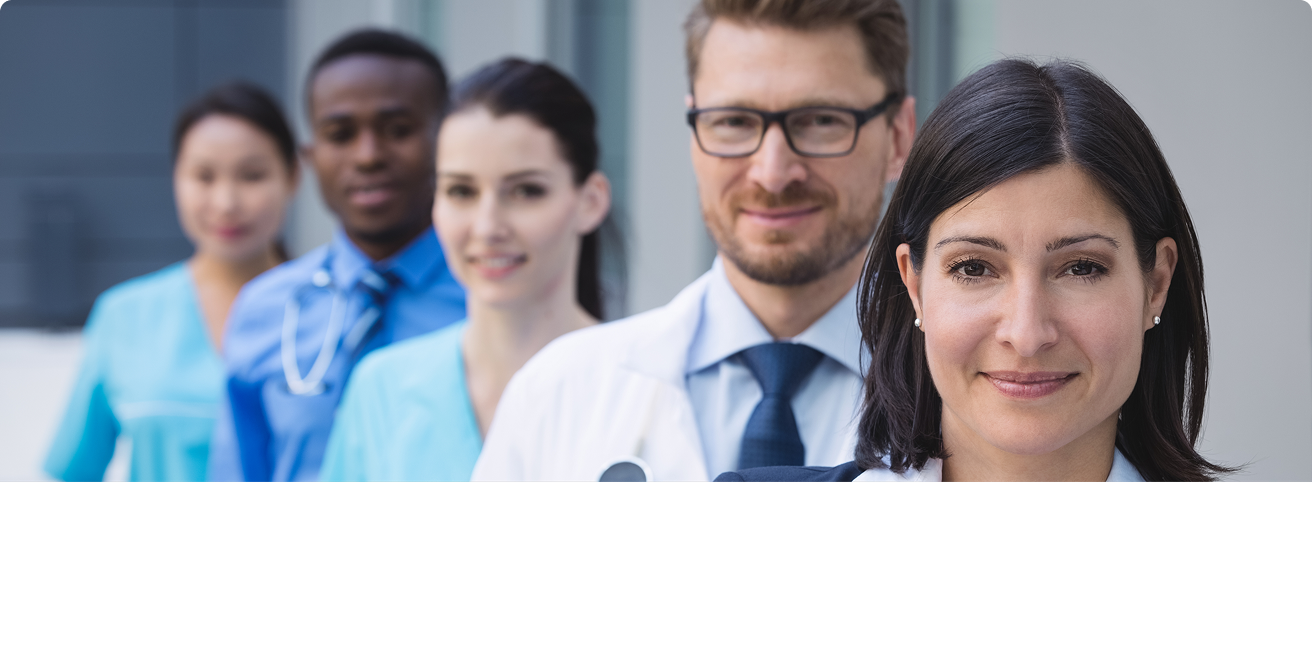
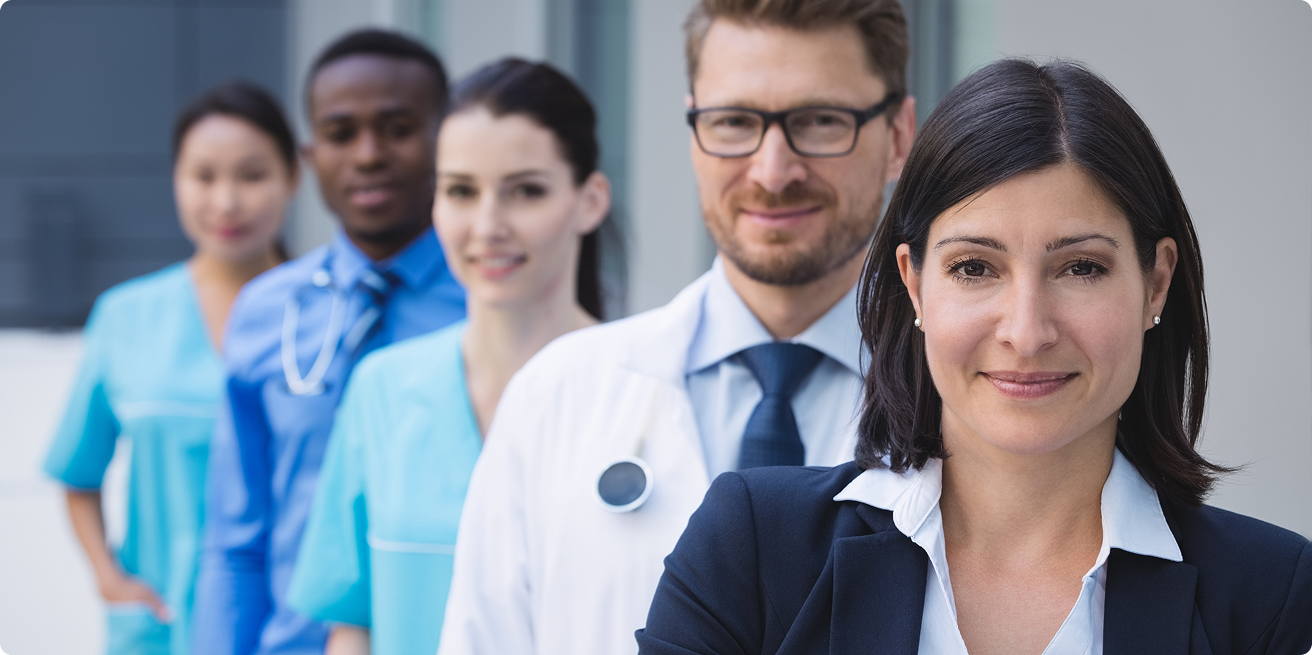
Completed the desktop view of the landing page

Changed region(s): [[0.0, 0.7328, 1.0, 1.0]]

diff --git a/src/pages/LandingPage.jsx b/src/pages/LandingPage.jsx
@@ -1,13 +1,14 @@
 import { useState } from "react";
-import { FitnessFeatureIcon, HealthContent, LandingPageImg1, LandingPageImg2, LandingPageImg3, LandingPageImg4, MedicationsFeatureIcon, NutritionFeatureIcon, Playvideoicon, ProfessionalFeatureIcon, Professionals2, ProfessionalsFrame, SearchIcon, Stethoscope, WellnessFeatureIcon} from "../assets";
+import { DietDish, Facebook, FitnessFeatureIcon, FooterAndroidDownload, FooterIOSDownload, HealthContent, HumanHeads, InstagramIcon, LandingPageImg1, LandingPageImg2, LandingPageImg3, LandingPageImg4, Logo, LoveSymbol, MedicationsFeatureIcon, MichealHeadShot, NutritionFeatureIcon, Playvideoicon, ProfessionalFeatureIcon, Professionals2, ProfessionalsFrame, RollPrint, SearchIcon, StarRate, Stethoscope, TikTok, TwitterIcon, WellnessFeatureIcon, YogaFlowCover} from "../assets";
 import Header from "../components/header";
 import { IoMdArrowRoundForward } from "react-icons/io";
-import { IoFitness } from "react-icons/io5";
+import { FaPlay } from 'react-icons/fa6';
+
 
 
 function WellnessNeeds({icon, description, title, iconDesc}) {
   return (
-    <div className="bg-white rounded-[20px] py-8.5 px-8 flex flex-col gap-4 w-100 text-left shadow-featurecard">
+    <div className="bg-white rounded-[20px] py-8.5 px-8 flex flex-col gap-4 flex-1 basis-[31%] text-left shadow-featurecard">
       <img src={icon} alt={iconDesc} className="w-22.5 h-19.5" />
       <h6 className="text-lg font-medium text-title">{title}</h6>
       <p className="text-base text-description leading-[150%]">{description}</p>
@@ -29,7 +30,7 @@ function LeliFeaturesCard({ title, description }) {
 
 function ProfessionalOptionsCard({icon, iconDesc, title, description, buttonText }) {
   return (
-    <div className="px-6 py-5 gap-5 flex flex-col flex-wrap text-base rounded-lg bg-[#FFFFFF] w-100 text-right">
+    <div className="px-6 py-5 gap-5 flex flex-col text-base rounded-lg bg-[#FFFFFF] flex-1 basis-[30%] text-left">
       <img src={icon} alt={iconDesc} className="w-11" />
       <h6 className="text-lg text-title font-medium -tracking-[1.1%]">
         {title}
@@ -52,28 +53,77 @@ function ProcessFeatureCard({title, description, icon, iconDesc}) {
   )
 }
 
-function ExpertComponent() {
+function ExpertComponent({img, imgDesc}) {
   return (
-    <div>
-      <video src=""></video>
-      <title></title>
-    </div>
-  )
-}
-
-function Testimonials() {
-  return (
-    <div className="bg-[#E5F1FA] p-6 rounded-[14px]">
-      <div></div>
-      <p className="text-base text-description mt-4">{ text }</p>
-      <div>
-        <img src={ } alt="" />
-        <div>
-          <p></p>
+    <div className="rounded-[9.5px] bg-white w-[300px] overflow-hidden">
+      <div className="relative">
+        <img src={img} alt={imgDesc} className="w-full h-[138.27px]" />
+        <div className="absolute inset-0 bg-black/40 flex items-center justify-center">
+          <div className="bg-white rounded-full w-[60px] h-[60px] flex justify-center items-center cursor-pointer">
+            <FaPlay color="black/40" className="ml-0.5" />
+          </div>
+        </div>
+      </div>
+      <div className="px-3 py-2">
+        <h6 className="text-base text-title font-semibold mt-1">
+          5-Minute Morning Yoga flow
+        </h6>
+        <div className="text-xs text-description flex items-center justify-between mt-3.5">
+          <p>Dr Sarah Mitchell</p>
+          <p>12.5k views</p>
         </div>
       </div>
     </div>
-  )
+  );
+}
+
+function AboutLeli({icon, title, description, iconDesc}) {
+  return (
+    <div className="flex py-4 gap-3 rounded-lg items-start bg-[#E5F1FA80] px-[77.5px]">
+      <img src={icon} alt={iconDesc} />
+      <div className="text-base text-description">
+        <h6 className="text-titlesize text-[#000000] font-semibold leading-[100%] mb-1">{title}</h6>
+        <p>{description}</p>
+      </div>
+    </div>
+  );
+}
+
+function Testimonials({text}) {
+  return (
+    <div className="bg-[#E5F1FA] p-6 rounded-[14px] text-base w-105 h-77.75">
+      <div className="flex items-center">
+        <img
+          src={StarRate}
+          alt="A gold star representing the users rating of Leli"
+        />
+        <img
+          src={StarRate}
+          alt="A gold star representing the users rating of Leli"
+        />
+        <img
+          src={StarRate}
+          alt="A gold star representing the users rating of Leli"
+        />
+        <img
+          src={StarRate}
+          alt="A gold star representing the users rating of Leli"
+        />
+        <img
+          src={StarRate}
+          alt="A gold star representing the users rating of Leli"
+        />
+      </div>
+      <p className="mt-4 mb-4.5 text-justify">{text}</p>
+      <div className="flex items-center text-left gap-2.5">
+        <img src={MichealHeadShot} alt="An closeup shot of Leli user" className="rounded-full w-12.5 h-12.5" />
+        <div>
+          <h6 className="text-[#000000] font-semibold">Michael Rodriguez</h6>
+          <p className="text-sm">Leli User</p>
+        </div>
+      </div>
+    </div>
+  );
 }
 
 
@@ -82,7 +132,7 @@ function LandingPage() {
     return (
       <>
         <Header />
-        <section className="px-16 text-center py-16">
+        <section className="px-16 text-center pt-16 pb-40">
           <h1 className="text-[56px] font-bold text-title whitespace-pre-wrap">
             Feel better.  
             <span className="text-primary"> Live healthier. </span> Every day.
@@ -100,8 +150,8 @@ function LandingPage() {
               Join as a Professional
             </button>
           </div>
-          <div className="relative mb-">
-            <div className="mt-10 flex items- gap-4 overflow-hidden">
+          <div className="relative">
+            <div className="mt-10 flex items-center gap-4 overflow-hidden">
               <img
                 src={LandingPageImg1}
                 alt="Image of a patient on a virtual consultation with her doctor"
@@ -121,9 +171,9 @@ function LandingPage() {
             </div>
             <div
               className="w-full h-15 absolute bottom-0 left-0 bg-white"
-              style={{ clipPath: "ellipse(50% 100% at 50% 100%)" }}
+              style={{ clipPath: "ellipse(54% 100% at 50% 100%)" }}
             ></div>
-            <div className="absolute flex items-center z-10 gap-12 left-1/2 -translate-x-1/2 text-title font-semibold text-2xl">
+            <div className="absolute -bottom-2 flex items-center z-10 gap-12 left-1/2 -translate-x-1/2 translate-y-1/2 text-title font-semibold text-2xl">
               <div className="border-r border-r-black p-3">
                 <p>50K+</p>
                 <p className="text-[14px] text-description font-normal">
@@ -136,7 +186,7 @@ function LandingPage() {
                   Professionals
                 </p>
               </div>
-              <div className="border-r border-r-black p-3">
+              <div className="">
                 <p>4.9/5</p>
                 <p className="text-[14px] text-description font-normal">
                   User Rating
@@ -226,13 +276,13 @@ function LandingPage() {
           <p>Simple steps to start your health journey or grow your practice</p>
           <div className="flex gap-4 items-center justify-center rounded-md mt-20 mb-8 text-base text-center">
             <button
-              className={`${selectedOption === "users" ? "bg-[#DBE5FF] text-[#0072CE]" : "bg-[#FFFFFF] text-[#000000]"} rounded-lg border border-[#DBE5FF] px-5.75 py-[9.5px]  `}
+              className={`${selectedOption === "users" ? "bg-[#DBE5FF] text-primary" : "bg-[#FFFFFF] text-[#000000]"} rounded-lg border border-[#DBE5FF] px-5.75 py-[9.5px]  `}
               onClick={() => setSelectedOption("users")}
             >
               For users
             </button>
             <button
-              className={`${selectedOption === "professionals" ? "bg-[#DBE5FF] text-[#0072CE]" : "bg-[#FFFFFF] text-[#000000]"} rounded-lg border border-[#DBE5FF] px-5.75 py-[9.5px]  `}
+              className={`${selectedOption === "professionals" ? "bg-[#DBE5FF] text-primary" : "bg-[#FFFFFF] text-[#000000]"} rounded-lg border border-[#DBE5FF] px-5.75 py-[9.5px]  `}
               onClick={() => setSelectedOption("professionals")}
             >
               For professionals
@@ -283,7 +333,7 @@ function LandingPage() {
               }
             />
           </div>
-          <button className="bg-[#0072CE] mt-14 text-[#FFFFFF] rounded-[10px] w-110.75 py-4.25 flex items-center justify-center gap-2 mx-auto cursor-pointer hover:scale-90 transition-transform duration-300 ease-in-out">
+          <button className="bg-primary mt-14 text-[#FFFFFF] rounded-[10px] w-110.75 py-4.25 flex items-center justify-center gap-2 mx-auto cursor-pointer hover:scale-90 transition-transform duration-300 ease-in-out">
             {selectedOption === "users" ? (
               <>
                 Start Exploring <IoMdArrowRoundForward color="#FFFFFF" />
@@ -311,7 +361,7 @@ function LandingPage() {
             alt="A lineup of five medical professionals"
           />
 
-          <div className="grid grid-row-2 grid-cols-3  gap-14 ">
+          <div className="flex flex-wrap gap-10 mt-6">
             <ProfessionalOptionsCard
               icon={Stethoscope}
               iconDesc="A sthethoscope representing the doctor profession"
@@ -351,21 +401,163 @@ function LandingPage() {
         </section>
 
         <section className="p-16 bg-[#F7F9FC]">
-          <h2 className="text-[40px] font-semibold text-title mb-4">
+          <h2 className="text-[40px] font-semibold text-title mb-4 text-center">
             Explore expert Content
           </h2>
-          <p className="text-2xl text-description mb-20">
+          <p className="text-2xl text-description mb-20 text-center">
             Simple steps to start your health journey or grow your practice
           </p>
-        </section>
 
-        <section className="bg-[#F7F9FC] py-24 px-16">
-          <h2>Loved by users and professionals</h2>
-          <p>See what our community has to say about their LELI experience</p>
-          <div className="mt-20">
-
+          <div className="flex items-center gap-5 justify-center">
+            <ExpertComponent
+              img={YogaFlowCover}
+              imgDesc="A lady performing yoga on the mat"
+            />
+            <ExpertComponent
+              img={DietDish}
+              imgDesc="A dish containing some combinaiton of veggies to represent diet"
+            />{" "}
+            <ExpertComponent
+              img={YogaFlowCover}
+              imgDesc="A lady performing yoga on the mat"
+            />
           </div>
         </section>
+
+        <section className="bg-[#F7F9FC] py-24 px-16 text-description text-center">
+          <h2 className="text-title font-semibold text-[40px] leading-[100%]">
+            Loved by users and professionals
+          </h2>
+          <p className="text-2xl mt-2">
+            See what our community has to say about their LELI experience
+          </p>
+          <div className="mt-20 flex items-center gap-6.5">
+            <Testimonials text='"CareCircle has completely transformed my approach to health. From fitness routines to mental wellness tips, everything I need is in one place. The professional network is incredible!"' />
+            <Testimonials text='"As a nutritionist, CareCircle has allowed me to reach so many more people. The platform is intuitive, and I love how I can share meal plans and connect with clients seamlessly."' />
+            <Testimonials text='"CareCircle has completely transformed my approach to health. From fitness routines to mental wellness tips, everything I need is in one place. The professional network is incredible!"' />
+          </div>
+        </section>
+
+        <section className="bg-[#F7F9FC] p-16">
+          <h2 className="text-title text-[40px] font-semibold text-center">
+            About LELI
+          </h2>
+          <p className="mt-2 text-description text-titlesize text-center">
+            Making health simple, accessible, and holistic
+          </p>
+          <div className="mt-20 flex items-start gap-1.5">
+            <p className="leading-10 text-2xl text-description tracking-[0.43%] w-[50%]">
+              LELI was created to bridge the gap between traditional healthcare
+              and everyday wellness. We combine expert medical knowledge with
+              practical lifestyle guidance — from fitness and nutrition to
+              mental wellness and medication management.
+              <br /> Our mission is to empower individuals to take control of
+              their health journey while connecting them with verified
+              professionals who can provide personalized guidance and support.
+            </p>
+            <div className="flex flex-col gap-10.75 w-[50%] ">
+              <AboutLeli
+                icon={LoveSymbol}
+                iconDesc="A love symbol describing the holsiticity of Leli offerings"
+                title="Holisitic Car"
+                description="We believe health is more than just medical — it's fitness, nutrition, and mental wellness combined."
+              />
+              <AboutLeli
+                icon={RollPrint}
+                iconDesc="A symbol containing a roll-like print describing the general accessibilty of Leli"
+                title="Accessible for All"
+                description="Making quality health information and professional care available to everyone, everywhere."
+              />
+              <AboutLeli
+                icon={HumanHeads}
+                iconDesc="Human heads symbol representing the community goal of Leli"
+                title="Community Driven"
+                description="Built by healthcare professionals and users working together for better wellness outcomes."
+              />
+            </div>
+          </div>
+        </section>
+
+        <section className="bg-[#E5F1FA] px-16 py-29.75">
+          <div className="bg-primary rounded-xl text-center text-[#FFFFFF] pt-8 pb-12.5 text-sm">
+            <h2 className="font-semibold text-[48px]">
+              Ready to transform your health journey?
+            </h2>
+            <p className="mt-2 max-w-146 text-lg mx-auto">
+              Join thousands of users and professionals who are making health
+              and wellness simple, accessible, and effective with CareCircle
+            </p>
+            <div className="flex items-center justify-center my-10 gap-4 text-lg font-semibold">
+              <button className="w-70 py-[17.5px] border bg-white rounded-[10px] border-primary text-primary leading-5.25 -tracking-[0.32px] cursor-pointer transition-transform hover:scale-90 duration-300 ease-in-out">
+                Join as a Professional
+              </button>
+              <button className="w-70 py-[17.5px] flex items-center justify-center gap-1.75 border rounded-[10px] border-[#FFFFFF] leading-5.25 -tracking-[0.32px] cursor-pointer transition-transform hover:scale-90 duration-300 ease-in-out">
+                Start your health journey{" "}
+                <span>
+                  <IoMdArrowRoundForward />
+                </span>
+              </button>
+            </div>
+            <p>No credit card required • Get started in less than 2 minutes</p>
+          </div>
+        </section>
+
+        <footer className="px-16 py-26.75 bg-[#101828] text-[#FFFFFF99] flex flex-wrap items-start justify-between">
+          <div className="w-62.25">
+            <img src={Logo} alt="" className="w-22.25 h-16.75 p-2" />
+            <p className="text-sm leading-5">
+              Your everyday health, fitness, and wellness companion. From mental
+              wellness and nutrition to medications and expert advice —
+              everything in one place.
+            </p>
+          </div>
+          <div className="flex flex-col gap-2.5">
+            <h5 className="mb-1 text-[#FFFFFF] text-xl font-semibold">
+              Explore
+            </h5>
+            <p>Fitness</p>
+            <p>Nutrition</p>
+            <p>Mental Wellness</p>
+            <p>Medications</p>
+            <p>Community</p>
+          </div>
+          <div className="flex flex-col gap-2.5">
+            <h5 className="mb-1 text-[#FFFFFF] text-xl font-semibold">
+              For Professionals
+            </h5>
+            <p>Join as Professional</p>
+            <p>Partner With Us</p>
+            <p>Resources</p>
+            <p>Request demo</p>
+          </div>
+          <div className="flex flex-col gap-2.5">
+            <h5 className="mb-1 text-[#FFFFFF] text-xl font-semibold">
+              Company
+            </h5>
+            <p>About Us</p>
+            <p>How it Works</p>
+            <p>Features</p>
+          </div>
+          <div className="flex flex-col gap-2.5">
+            <h5 className="mb-1 text-[#FFFFFF] text-xl font-semibold">Legal</h5>
+            <p>Privacy Policy</p>
+            <p>Terms of Service</p>
+            <p>Cookie Policy</p>
+          </div>
+
+          <div className="mt-10 w-full flex items-center gap-50">
+            <div className="flex gap-5.5">
+              <img src={FooterIOSDownload} alt="" />
+              <img src={FooterAndroidDownload} alt="" />
+            </div>
+            <div className="flex items-center gap-2">
+              <img src={Facebook} alt="" />
+              <img src={TwitterIcon} alt="" />
+              <img src={TikTok} alt="" />
+              <img src={InstagramIcon} alt="" />
+            </div>
+          </div>
+        </footer>
       </>
     );
 }

diff --git a/src/assets/index.js b/src/assets/index.js
@@ -40,3 +40,16 @@ export { default as SearchIcon } from "./Icons/search.svg";
 export { default as Professionals2 } from "./Icons/professionals2.svg";
 export { default as ProfessionalsFrame } from "./Images/professionals.png";
 export { default as Stethoscope } from "./Icons/medical-doctor.svg";
+export { default as InstagramIcon } from "./Icons/instagram.svg";
+export { default as TwitterIcon } from "./Icons/twitter.svg";
+export { default as Facebook } from "./Icons/facebook.svg";
+export { default as TikTok } from "./Icons/tiktok.svg";
+export { default as FooterIOSDownload } from "./Images/IOS-footer.png";
+export { default as FooterAndroidDownload } from "./Images/Android-footer.png";
+export { default as MichealHeadShot } from "./Images/Micheal-headshot.jpg";
+export { default as StarRate } from "./Icons/solar_star.svg";
+export { default as LoveSymbol } from "./Icons/holistic_care.svg";
+export { default as RollPrint } from "./Icons/accessible.svg";
+export { default as HumanHeads } from "./Icons/holistic_care.svg";
+export { default as YogaFlowCover } from "./Images/yoga-flow.jpg";
+export { default as DietDish } from "./Images/dietplate.png";